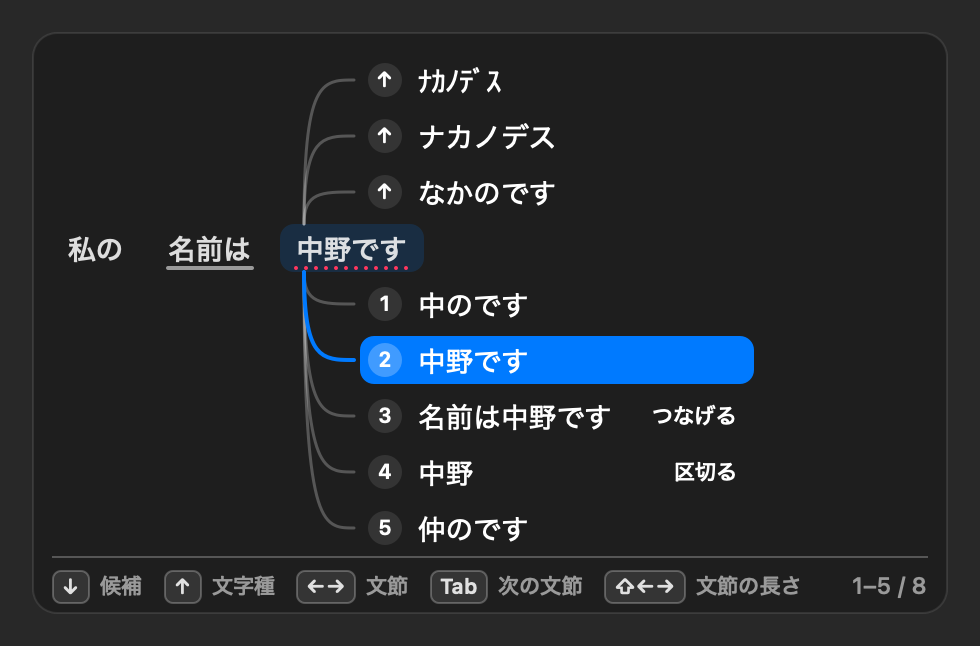
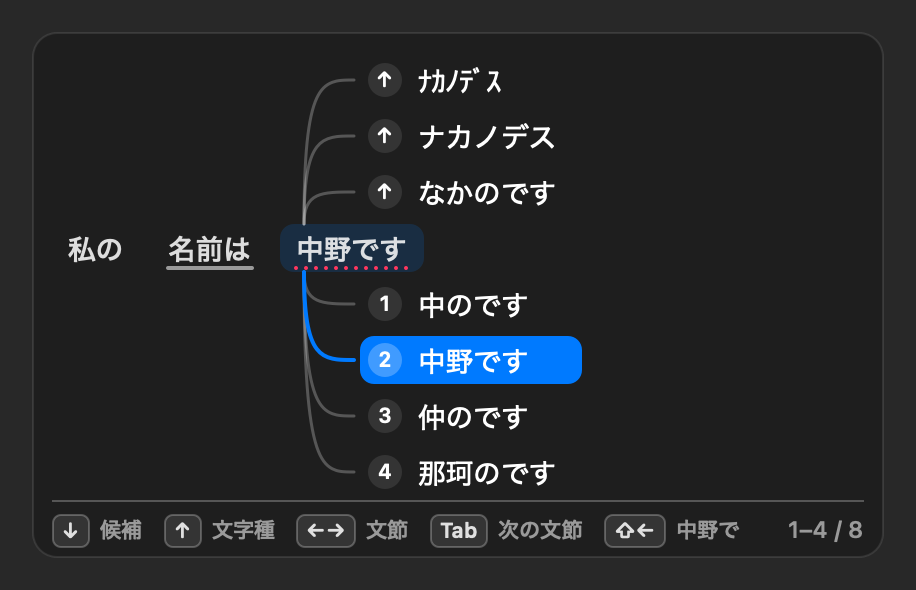
fix(macos): 文節の長さを変える候補を下の枝に混ぜるのをやめ，⇧←→ を押したらどうなるかを足元に出す

Changed region(s): [[0.0306, 0.0915, 0.9476, 0.9458], [0.6725, 0.7017, 0.7642, 0.7627]]

diff --git a/apps/macos/S90IME/UI/BranchView.swift b/apps/macos/S90IME/UI/BranchView.swift
@@ -19,6 +19,12 @@ final class BranchView: NSView {
     var panel: LatticePanel? { didSet { needsDisplay = true } }
     /// 足元の案内に出すキーの割り当て
     var keys = KeyBindings.standard { didSet { needsDisplay = true } }
+
+    /// 足元の案内．注目している文節の長さを変えたらどうなるかも出す
+    private var hints: [KeyHint] {
+        let focused = panel?.columns.first(where: \.isFocused)
+        return UIStrings.Branch.hints(for: keys, shorter: focused?.shorter, longer: focused?.longer)
+    }
     var theme = ResolvedTheme.resolveStatic { didSet { needsDisplay = true } }
     var fontSize: CGFloat = Size.fontSize { didSet { needsDisplay = true } }
     var restOpacity: CGFloat = 1 { didSet { needsDisplay = true } }
@@ -88,11 +94,8 @@ final class BranchView: NSView {
         let focused = panel.columns.firstIndex(where: \.isFocused)
         let column = focused.map { panel.columns[$0] }
         let labels = (column?.alternatives ?? []) + (column?.variants ?? [])
-        // 「つなげる」「区切る」の添え書きの幅も足す
-        let noteWidth = (column?.alternativeKinds.contains { $0 != .candidate } ?? false)
-            ? textWidth(UIStrings.Branch.joined, font: labelFont) + Size.paddingX * 2 : 0
         let branchWidth = metrics.stemX + metrics.branchIndent + metrics.lead
-            + (labels.map { textWidth($0, font: candidateFont) }.max() ?? 0) + noteWidth + Size.paddingX * 2
+            + (labels.map { textWidth($0, font: candidateFont) }.max() ?? 0) + Size.paddingX * 2
         let branchRight = (focused.map { trunkX[$0] } ?? metrics.inset) + branchWidth
         let previewRows = panel.columns.contains { $0.preview != nil } ? 1 : 0
         let upperRows = column?.variants.count ?? 0
@@ -183,23 +186,12 @@ final class BranchView: NSView {
         var badge: String
         var isSelected: Bool
         var opacity: CGFloat
-        /// 文節の長さを変える候補の添え書き(「つなげる」「区切る」)
-        var note: String? = nil
-    }
-
-    private static func note(for kind: LatticePanel.Column.AlternativeKind) -> String? {
-        switch kind {
-        case .candidate: nil
-        case .joined: UIStrings.Branch.joined
-        case .split: UIStrings.Branch.split
-        }
     }
 
     /// 下の枝(変換の候補)．第 1 候補はすぐに濃く出す
     private func lowerRows(_ column: LatticePanel.Column) -> [Row] {
         column.alternatives.enumerated().map { index, text in
-            Row(text: text, badge: "\(index + 1)", isSelected: index == column.selectedAlternative, opacity: index == 0 ? 1 : restOpacity,
-                note: column.alternativeKinds.indices.contains(index) ? Self.note(for: column.alternativeKinds[index]) : nil)
+            Row(text: text, badge: "\(index + 1)", isSelected: index == column.selectedAlternative, opacity: index == 0 ? 1 : restOpacity)
         }
     }
 
@@ -264,13 +256,6 @@ final class BranchView: NSView {
 
     private func drawRow(_ row: Row, in rect: NSRect) {
         let textColor = (row.isSelected ? theme.selectionText : theme.text).withAlphaComponent(row.isSelected ? 1 : row.opacity)
-        defer {
-            if let note = row.note {
-                let color = (row.isSelected ? theme.selectionText : theme.textMuted).withAlphaComponent(row.isSelected ? 1 : row.opacity)
-                let attributes: [NSAttributedString.Key: Any] = [.font: labelFont, .foregroundColor: color]
-                drawText(note, attributes: attributes, x: rect.maxX - Size.paddingX - textWidth(note, font: labelFont), in: rect)
-            }
-        }
         if theme.isGlass {
             if row.isSelected { GlassDrawing.fillCapsule(rect.insetBy(dx: 0, dy: 2), color: theme.selection) }
             let badgeCenter = NSPoint(x: rect.minX + Size.paddingX / 2 + Glass.badgeSize / 2, y: rect.midY)
@@ -330,8 +315,8 @@ final class BranchView: NSView {
 
     private func footerWidth(_ panel: LatticePanel) -> CGFloat {
         if let note = panel.note { return textWidth(note, font: labelFont) }
-        return theme.isGlass ? GlassDrawing.hintsWidth(UIStrings.Branch.hints(for: keys), theme: theme)
-            : textWidth(KeyHint.text(UIStrings.Branch.hints(for: keys)), font: labelFont)
+        return theme.isGlass ? GlassDrawing.hintsWidth(hints, theme: theme)
+            : textWidth(KeyHint.text(hints), font: labelFont)
     }
 
     private func drawFooter(_ panel: LatticePanel, y: CGFloat, width: CGFloat) {
@@ -349,9 +334,9 @@ final class BranchView: NSView {
             // 打ち間違いを直したことなど，IME が変えたことを知らせる
             drawText(note, attributes: [.font: labelFont, .foregroundColor: theme.correction], x: footer.minX, in: footer)
         } else if theme.isGlass {
-            GlassDrawing.drawHints(UIStrings.Branch.hints(for: keys), x: footer.minX, midY: footer.midY, theme: theme)
+            GlassDrawing.drawHints(hints, x: footer.minX, midY: footer.midY, theme: theme)
         } else {
-            drawText(KeyHint.text(UIStrings.Branch.hints(for: keys)), attributes: muted, x: footer.minX, in: footer)
+            drawText(KeyHint.text(hints), attributes: muted, x: footer.minX, in: footer)
         }
         let position = position(of: panel)
         drawText(position, attributes: muted, x: footer.maxX - textWidth(position, font: labelFont), in: footer)

diff --git a/core/Sources/S90Application/Session/InputSession.swift b/core/Sources/S90Application/Session/InputSession.swift
@@ -465,7 +465,7 @@ public final class InputSession {
         if let typed = readingCorrector.typedComposition(from: composition) {
             lattice = builder.addingTyped(lattice, typedReading: typed.conversionReading, reading: composition.conversionReading)
         }
-        phase = .lattice(builder.withResizeOptions(lattice, reading: composition.conversionReading))
+        phase = .lattice(lattice)
     }
 
     /// 日本語の打ち間違いを見直す(「ようですね」→「よいですね」)．英単語を直しているときは見直さない
@@ -725,6 +725,11 @@ public final class InputSession {
                 .init(segment.selected.text, style: index == lattice.focusedIndex ? .focused : .converted)
             })
             var panel = PanelBuilder.latticePanel(for: lattice)
+            let preview = LatticeBuilder(converter: converter).resizePreview(lattice, reading: composition.conversionReading)
+            if let focused = panel.columns.firstIndex(where: \.isFocused) {
+                panel.columns[focused].shorter = preview.shorter
+                panel.columns[focused].longer = preview.longer
+            }
             if readingCorrector.isApplied { panel.note = PanelBuilder.readingCorrectionNote }
             return [.setMarkedText(marked), .showLattice(panel)]
         }
@@ -766,42 +771,23 @@ public final class InputSession {
                 let length = lattice.focused.readingLength + (command == .extendSegment ? 1 : -1)
                 lattice = builder.resize(lattice, segmentAt: lattice.focusedIndex, to: length, reading: composition.conversionReading)
             }
-            lattice = applyResizeChoice(lattice, builder: builder)
             phase = .lattice(lattice)
             return KeyResult(handled: true, actions: render(context: context))
         }
         switch event.key {
         case .character(let character):
             guard let number = numberKey(character), lattice.select(number: number) else { return nil }
-            if case .resized = lattice.focused.selected.origin {
-                // 長さを変えた候補は，区切り直して同じ文節で選び続ける
-                lattice = applyResizeChoice(lattice, builder: builder)
-                phase = .lattice(lattice)
-                return KeyResult(handled: true, actions: render(context: context))
-            }
             // 番号で選んだら，まだ選んでいない迷う文節へ進む．残っていなければ確定する(1 回の判断で済ませる)
             guard let next = lattice.segments.indices.first(where: { !lattice.segments[$0].isConfident && !lattice.segments[$0].isDecided }) else {
                 phase = .lattice(lattice)
                 return KeyResult(handled: true, actions: commitAll())
             }
             lattice.focusedIndex = next
-            lattice = builder.withResizeOptions(lattice, reading: composition.conversionReading)
         default:
             return nil
         }
         phase = .lattice(lattice)
         return KeyResult(handled: true, actions: render(context: context))
-    }
-
-    /// 文節の長さを変えた候補(「つなげる」「区切る」)を選んでいたら，文節をその長さに区切り直す．
-    /// そのあと，注目している文節に長さを変えた候補を入れ直す
-    private func applyResizeChoice(_ lattice: SegmentLattice, builder: LatticeBuilder) -> SegmentLattice {
-        var lattice = lattice
-        let reading = composition.conversionReading
-        if case .resized(let length) = lattice.focused.selected.origin {
-            lattice = builder.resize(lattice, segmentAt: lattice.focusedIndex, to: length, reading: reading)
-        }
-        return builder.withResizeOptions(lattice, reading: reading)
     }
 
     private func composingMarkedText() -> MarkedText {

diff --git a/core/Sources/S90Application/Session/LatticeBuilder.swift b/core/Sources/S90Application/Session/LatticeBuilder.swift
@@ -60,42 +60,15 @@ struct LatticeBuilder {
         }
     }
 
-    /// 注目している文節の 3 番目に，文節の長さを変えた候補(次の文節とつなげたもの，短く区切ったもの)を入れる．
-    /// Shift+←→ を知らなくても，候補を選ぶのと同じ操作で区切りを直せるようにするため．ほかの文節からは取り除く
-    func withResizeOptions(_ lattice: SegmentLattice, reading: String) -> SegmentLattice {
-        var result = lattice
-        for index in result.segments.indices {
-            result.segments[index].candidates.removeAll { if case .resized = $0.origin { true } else { false } }
-            if case .candidate(let choice) = result.segments[index].choice, choice >= result.segments[index].candidates.count {
-                result.segments[index].choice = .candidate(0)
-            }
-        }
-        let index = result.focusedIndex
-        let segment = result.segments[index]
-        let rest = String(reading.dropFirst(segment.readingStart))
-        var options: [Candidate] = []
-        if index + 1 < result.segments.count {
-            let length = segment.readingLength + result.segments[index + 1].readingLength
-            options.append(resizedCandidate(rest: rest, length: length))
-        }
-        let inner = ClauseSplitter.clauses(of: converter.segmentationWords(for: String(rest.prefix(segment.readingLength))))
-        if inner.count > 1, let first = inner.first, first.readingCount < segment.readingLength {
-            options.append(resizedCandidate(rest: rest, length: first.readingCount))
-        }
-        let position = min(2, segment.candidates.count)
-        result.segments[index].candidates.insert(contentsOf: options.filter { option in
-            !segment.candidates.contains { $0.text == option.text }
-        }, at: position)
-        if case .candidate(let choice) = segment.choice, choice >= position {
-            result.segments[index].choice = .candidate(choice + options.count)
-        }
-        return result
-    }
-
-    private func resizedCandidate(rest: String, length: Int) -> Candidate {
-        let slice = String(rest.prefix(length))
-        let text = converter.candidates(for: slice).first { $0.readingCount == length }?.text ?? slice
-        return Candidate(text: text, readingCount: length, origin: .resized(length))
+    /// 注目している文節の長さを 1 文字短く・長くしたら，その文節が何になるか(分岐図の足元に「⇧← 入れ　⇧→ 入れると」と見せる)．
+    /// 押す前に結果が分かれば，文節の長さを試しに変えて戻す手間が要らない
+    func resizePreview(_ lattice: SegmentLattice, reading: String) -> (shorter: String?, longer: String?) {
+        let segment = lattice.focused
+        let shorter = segment.readingLength > 1
+            ? resize(lattice, segmentAt: lattice.focusedIndex, to: segment.readingLength - 1, reading: reading).focused.selected.text : nil
+        let longer = segment.readingStart + segment.readingLength < reading.count
+            ? resize(lattice, segmentAt: lattice.focusedIndex, to: segment.readingLength + 1, reading: reading).focused.selected.text : nil
+        return (shorter, longer)
     }
 
     /// 打ち間違いを直したとき，直した部分を含む文節の 2 番目に，打ったままの読みの候補を入れる．

diff --git a/apps/macos/S90IME/UI/UIStrings.swift b/apps/macos/S90IME/UI/UIStrings.swift
@@ -11,19 +11,19 @@ enum UIStrings {
 
     enum Branch {
         /// 足元の案内．キーは設定の割り当て(KeyBindings)の最初のキーを出す
-        static func hints(for keys: KeyBindings) -> [KeyHint] {
+        /// 文節の長さは，押したらどうなるか(shorter・longer)が分かればそれを見せる(「⇧← 入れ　⇧→ 入れると」)
+        static func hints(for keys: KeyBindings, shorter: String? = nil, longer: String? = nil) -> [KeyHint] {
             func first(_ command: ConversionCommand) -> String { keys.strokes(for: command).first.map(Keys.name(of:)) ?? "" }
-            return [
+            let length: [KeyHint] = shorter == nil && longer == nil
+                ? [KeyHint(key: Keys.pair(first(.shrinkSegment), first(.extendSegment)), label: "文節の長さ")]
+                : [shorter.map { KeyHint(key: first(.shrinkSegment), label: $0) }, longer.map { KeyHint(key: first(.extendSegment), label: $0) }].compactMap { $0 }
+            return ([
                 KeyHint(key: first(.nextCandidate), label: "候補"),
                 KeyHint(key: first(.previousCandidate), label: "文字種"),
                 KeyHint(key: Keys.pair(first(.previousSegment), first(.nextSegment)), label: "文節"),
                 KeyHint(key: first(.nextUncertainSegment), label: "次の文節"),
-                KeyHint(key: Keys.pair(first(.shrinkSegment), first(.extendSegment)), label: "文節の長さ"),
-            ].filter { !$0.key.isEmpty }
+            ] + length).filter { !$0.key.isEmpty }
         }
-        /// 文節の長さを変える候補に添える文字
-        static let joined = "つなげる"
-        static let split = "区切る"
         /// 上の枝(文字種)の丸に入れる印
         static let variantBadge = "↑"
         static func position(first: Int, last: Int, total: Int) -> String {

diff --git a/core/Sources/S90Application/Session/ClientAction.swift b/core/Sources/S90Application/Session/ClientAction.swift
@@ -142,20 +142,14 @@ public struct LatticePanel: Sendable, Equatable {
         public var isDecided: Bool
         /// 注目していない迷う文節に薄く添える，次の候補
         public var preview: String?
-        /// 下の枝の候補ごとの種類(alternatives と同じ数)．文節の長さを変える候補を見分けて添え書きを付ける
-        public var alternativeKinds: [AlternativeKind]
-
-        public enum AlternativeKind: Sendable, Equatable {
-            case candidate
-            /// 次の文節とつなげた候補
-            case joined
-            /// 文節を短く区切った候補
-            case split
-        }
+        /// 注目している文節を 1 文字短く・長くしたときの文節(足元に「⇧← 入れ　⇧→ 入れると」と見せる)
+        public var shorter: String?
+        public var longer: String?
 
         public init(text: String, alternatives: [String] = [], selectedAlternative: Int? = nil, variants: [String] = [], selectedVariant: Int? = nil,
-                    isFocused: Bool, isUncertain: Bool, isDecided: Bool = false, preview: String? = nil, alternativeKinds: [AlternativeKind]? = nil) {
-            self.alternativeKinds = alternativeKinds ?? alternatives.map { _ in .candidate }
+                    isFocused: Bool, isUncertain: Bool, isDecided: Bool = false, preview: String? = nil, shorter: String? = nil, longer: String? = nil) {
+            self.shorter = shorter
+            self.longer = longer
             self.text = text
             self.alternatives = alternatives
             self.selectedAlternative = selectedAlternative

diff --git a/core/Tests/S90ApplicationTests/InputSessionScenarioTests.swift b/core/Tests/S90ApplicationTests/InputSessionScenarioTests.swift
@@ -601,19 +601,20 @@ struct BranchMapControlTests {
         #expect(column?.variants.contains("らいぶ") == true)
     }
 
-    @Test("注目している文節の候補に「つなげる」を出し，選ぶと次の文節とつなげる")
-    func joinFromCandidates() {
+    @Test("足元に，文節を 1 文字短く・長くしたらどうなるかを出す．候補を選んでも文節の長さは変わらない")
+    func resizePreview() {
         let harness = Harness(converter: converter())
         harness.type("kyouhaii")
         harness.press(.space)
         harness.press(.left)
         let column = harness.lattice?.columns.first(where: \.isFocused)
         #expect(column?.text == "今日は")
-        let joined = column?.alternativeKinds.firstIndex(of: .joined)
-        #expect(joined != nil)
-        if let joined { harness.press(.character(Character("\(joined + 1)"))) }
-        #expect(harness.lattice?.columns.count == 1)
-        #expect(harness.lattice?.columns.first?.text == "今日はいい")
+        #expect(column?.longer != nil)
+        #expect(column?.shorter != nil)
+        let count = harness.lattice?.columns.count
+        harness.press(.down)
+        harness.press(.down)
+        #expect(harness.lattice?.columns.count == count)
     }
 }
 

diff --git a/apps/macos/S90IME/App/SnapshotRenderer.swift b/apps/macos/S90IME/App/SnapshotRenderer.swift
@@ -101,9 +101,8 @@ enum SnapshotRenderer {
         let panel = LatticePanel(columns: [
             .init(text: "私の", isFocused: false, isUncertain: false),
             .init(text: "名前は", isFocused: false, isUncertain: false, isDecided: true),
-            .init(text: "中野です", alternatives: ["中のです", "中野です", "名前は中野です", "中野", "仲のです"], selectedAlternative: 1,
-                  variants: ["なかのです", "ナカノデス", "ﾅｶﾉﾃﾞｽ"], isFocused: true, isUncertain: true,
-                  alternativeKinds: [.candidate, .candidate, .joined, .split, .candidate]),
+            .init(text: "中野です", alternatives: ["中のです", "中野です", "仲のです", "那珂のです"], selectedAlternative: 1,
+                  variants: ["なかのです", "ナカノデス", "ﾅｶﾉﾃﾞｽ"], isFocused: true, isUncertain: true, shorter: "中野で", longer: nil),
         ], position: 1, total: 8)
         view.panel = panel
         view.frame = NSRect(origin: .zero, size: view.fittingSize(for: panel))

diff --git a/core/Sources/S90Application/Session/PanelBuilder.swift b/core/Sources/S90Application/Session/PanelBuilder.swift
@@ -75,11 +75,7 @@ enum PanelBuilder {
                 selectedVariant: selectedVariant,
                 isFocused: true,
                 isUncertain: !segment.isConfident,
-                isDecided: segment.isDecided,
-                alternativeKinds: page.map { candidate in
-                    guard case .resized(let length) = candidate.origin else { return .candidate }
-                    return length > segment.readingLength ? .joined : .split
-                }
+                isDecided: segment.isDecided
             )
         }
         return LatticePanel(columns: columns, position: position, total: total)

diff --git a/core/Sources/S90Domain/Input/Candidate.swift b/core/Sources/S90Domain/Input/Candidate.swift
@@ -16,8 +16,6 @@ public enum CandidateOrigin: Sendable, Equatable {
     case symbol
     /// 利用者が登録した語
     case userDictionary
-    /// 文節の長さを変えた候補．選ぶと文節をこの読みの長さに区切り直す(分岐図の「つなげる」「区切る」)
-    case resized(Int)
 }
 
 /// 候補ひとつ．readingCount は，この候補が読みの先頭から何文字ぶんを置き換えるか．
